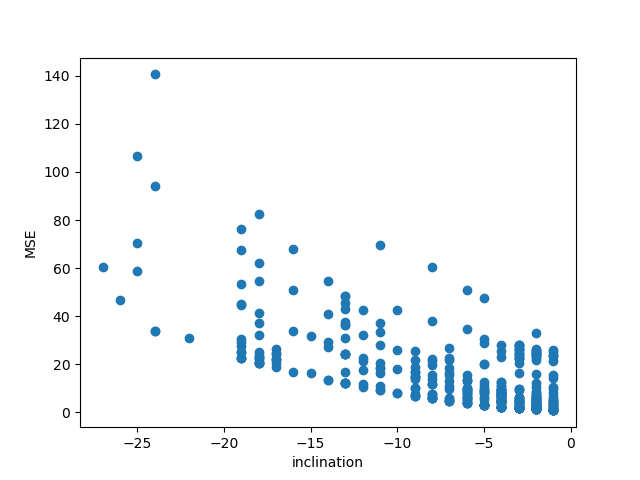
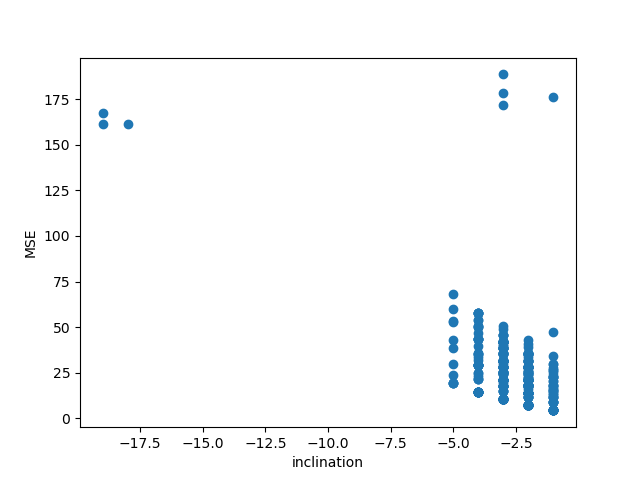
finish

diff --git a/Generic_Alrorithm.py b/Generic_Alrorithm.py
@@ -2,7 +2,6 @@ import csv
 import pandas as pd
 import matplotlib.pyplot as plt
 import random as rn
-import numpy as np
 
 # 데이터 셋 찾음
 # MSE 오차율을 유전알고리즘으로 구하기
@@ -36,10 +35,12 @@ def nota(t, h):
 # 예측된 값으로 그래프 그리기
 def predicted(a, xVal):
     yArr = []
-    print("a", a)
-    print("xVal", xVal)
     for i in range(len(xVal)):
-        y = (a - 0.5) * xVal[i] + 50
+        # +80을 하여 임의로 상수 값의 예측을 대신하였다.
+        if a > 0:
+            y = -a * xVal[i] + 80
+        else:
+            y = a * xVal[i] + 80
         yArr.append(float(y))
     return yArr
 
@@ -78,11 +79,13 @@ def selection(Aarr):
     return sx
 
 
+# bin() format
 def binformat(x):
     binformat = '{0:>8}'.format(bin(x)).replace("b", "0").replace(" ", "0").replace("-", "0")
     return binformat
 
 
+# int to binary
 def int2Bin(str):
     binlist = []
     for i in range(4):
@@ -91,52 +94,53 @@ def int2Bin(str):
     return binlist
 
 
+# 교차 연산
 def crossover(arr):
     strarr = []
     for i in range(2):
         bita = str(arr[i])
         bitb = str(arr[i + 1])
 
-        strarr.append(bita[:4] + bitb[4:])
-        strarr.append(bitb[:4] + bita[4:])
+        strarr.append(bita[:5] + bitb[5:])
+        strarr.append(bitb[:5] + bita[5:])
 
     return strarr
 
 
+# 돌연변이 연산
 def invert(char):
     ran = rn.random()
     a = int(char, 2)  # 숫자
     abin = binformat(a)
     abinstr = str(abin)
     reta = 0
-
     for i in range(5):
-        p = 1 / 5
+        p = 1 / 50
         if ran < p:
             if abinstr[5:6] == "1":
-                reta = a & ~(2 << 3)
+                reta = a & ~(1 << 4)
 
             elif abinstr[5:6] == "0":
-                reta = a | (2 << 3)
+                reta = a | (1 << 4)
             return reta
         return a
 
 
+# 돌연변이 한 값 저장하기
 def mutation(mut):
     mutarr = []
-    mutarr2 = []
-    output = []
     mutint = list(map(str, mut))
     for i in range(4):
-        mutarr.append(float(-invert(mutint[i])))
-
+        mutinv = float(-invert(mutint[i]))
+        mutarr.append(mutinv)
     return mutarr
 
 
 # MSE 계산식
-def MSEnotation(yInit, yPredict):
-    MSEval = pow(yPredict - yInit, 2)
-    return MSEval
+def MSEexpression(yInit, yPredict):
+    MSEval = yPredict - yInit
+    powMSE = MSEval * MSEval
+    return powMSE
 
 
 # 오차율 구하기
@@ -146,27 +150,24 @@ def MSE(predict, tempdata):
     for i in range(4):
         for j in range(144):
             initnotation = predict[i] * tempdata[j]
-            yY = MSEnotation(arr2[i], initnotation)
+            yY = MSEexpression(arr2[j], initnotation)
             yYval.append(float(yY))
-            yMSE = 1 / 2000000 * sum(yYval)
+            yMSE = 1 / 265900 * sum(yYval)
         initgraph.append(float(yMSE))
-
     return initgraph
 
 
+# 기울기와 MSE값을 가진 리스트에서 최소 MSE의 기울기를 찾아낸다.
 def minx(x, list2):
     for lis in list2:
         if str(x) in lis:
             return float(lis[0])
 
 
-# TODO: 선정된 4개의 a와 랜덤한 기온값 대입 vs 초기 데이터와 비교(MSE) MSE그래프 그리기
-# TODO: 최소 오차율인 기울기로 랜덤한 기온값 대입하여 예측그래프 그리기
-# MSE = 1/n sum(Y'-Y)^2
-# 유전알고리즘 main---------
-tempmin = 5
+# 유전알고리즘 ---------main---------
+tempmin = 18
 tempmax = 35
-hummin = 10
+hummin = 20
 hummax = 95
 
 x = []
@@ -174,7 +175,9 @@ y = []
 list2 = []
 TempPred = []
 
+# 반복 100번
 for i in range(100):
+    # 각 함수들의 사용
     initreturn = init(tempmin, tempmax, hummin, hummax)
     selectionreturn = selection(initreturn)
     inttobinary = int2Bin(selectionreturn)
@@ -182,30 +185,37 @@ for i in range(100):
     mutationed = mutation(cross)
     MSEarr = MSE(mutationed, arr)
 
-    # print test
+    # print를 통해 원하는 값이 나오는지 확인
     print("---------------------")
     print("init: ", initreturn)
     print("selection:", selectionreturn)
     print("inttobin: ", inttobinary)
     print("cross: ", cross)
-    print(mutationed)
-    print(MSEarr)
+    print("mutationed: ", mutationed)
+    print("MSEarr:", MSEarr)
+    print("예측된 기울기:", min(mutationed))
+    print("-----------------------")
 
+    # x와 y에 예측된 기울기와 MSE값을 넣은다.
     x += mutationed
     y += MSEarr
 
-    list2.append([str(x[i]), str(y[i])])
+    # 예측된 기울기 값과 랜덤 온도로 그래프 예측하기위한 값
+    temperature = rn.randint(18, 35)
+    TempPred.append(temperature)
 
-    temperature = rn.randint(tempmin, tempmax)
-    TempPred.append(float(temperature))
+    # x와 y에 예측된 기울기와 MSE값을 넣은다.
+    for u in range(len(y)):
+        list2.append([str(x[i]), str(y[i])])
 
-    minX = minx(min(y), list2)
-    if minX == None:
-        print("none")
+# minx 함수에서 최소 MSE의 기울기를 알아낸다.
+minX = minx(min(y), list2)
+print("최소 MSE 기울기: ", minX)
 
-print("prit", minX)
+# 그래프 예측을 위한 계산(predicted 함수 사용)
 yPredict = predicted(minX, TempPred)
 
+# pandas library로 DataFrame 지정
 MSEGrapg = pd.DataFrame(
     {"aValue": x, "MSE": y}
 )
@@ -213,21 +223,27 @@ MSEGrapg = pd.DataFrame(
 temp = pd.DataFrame(
     {"temp": arr, "hum": arr2}
 )
+
 predictgraph = pd.DataFrame(
     {"temp2": TempPred, "hum2": yPredict}
 )
 
-print(list2)
-
+# 그래프 그리기
 plt.figure()
+# 기존 데이터의 그래프를 그린다
 plt.scatter(temp['temp'], temp['hum'], marker="o")
+# 예측된 기울기로 그래프를 예측한다.
 plt.scatter(predictgraph["temp2"], predictgraph["hum2"], marker="x")
 plt.xlabel('temperature')
 plt.ylabel('humedity')
 plt.savefig("initial.png")
 
 plt.figure()
+# MSE 평가지표 그래프
 plt.scatter(MSEGrapg['aValue'], MSEGrapg['MSE'], marker="o")
 plt.xlabel('inclination')
 plt.ylabel('MSE')
 plt.savefig("MSE.png")
+
+# 그래프 띄우기
+plt.show()
